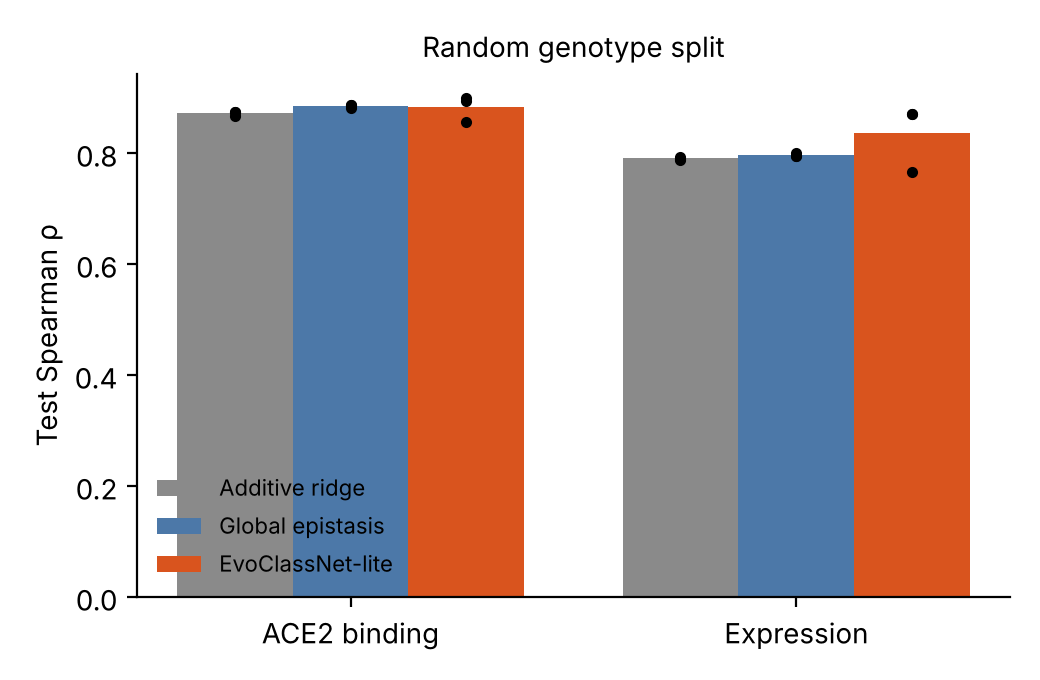
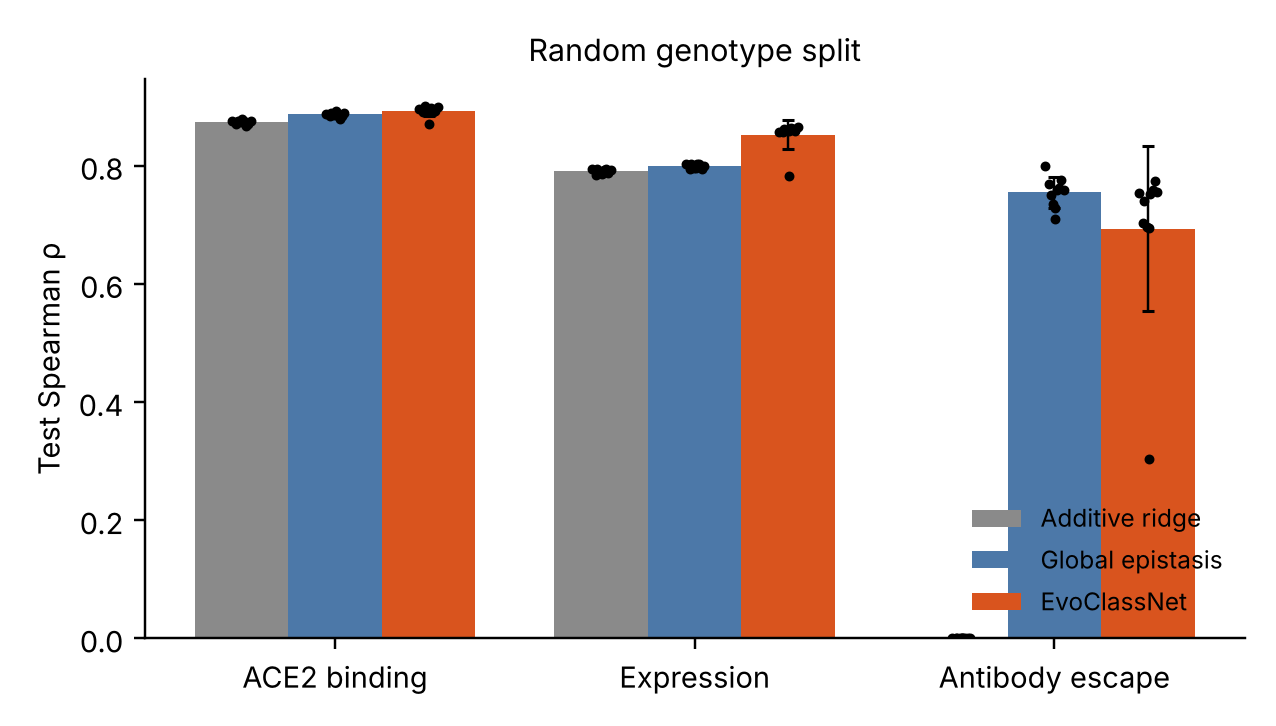
Add stability diagnostic separating partition difficulty from optimisation instability
Per-seed inspection of the 10-seed study shows one held-out-position seed failing on
all three phenotypes (binding -0.42) while nine are positive. Split seed and weight
initialisation share a number in the main study, so this script holds the partition
fixed and varies only the initialisation.

Claude-Session: https://claude.ai/code/session_01WvoRybUDvc848EsKeN6znn

diff --git a/scripts/stability_check.py b/scripts/stability_check.py
@@ -1,0 +1,40 @@
+"""Is the occasional failed run caused by a hard partition or by unstable optimisation?
+
+In the main study the split seed and the weight-initialisation seed are the same number, so the
+two explanations are confounded. Here we hold the partition fixed and vary only the
+initialisation, for a partition that failed and for one that succeeded.
+"""
+import json, sys, time
+from pathlib import Path
+import numpy as np, torch
+from scipy.stats import spearmanr
+sys.path.insert(0, str(Path(__file__).resolve().parents[1]))
+from evoclassnet import data, model as M
+ROOT = Path(__file__).resolve().parents[1]; OUT = ROOT / "results"
+torch.set_num_threads(4)
+TASKS = ["bind", "expr", "escape"]
+log = lambda *a: print(time.strftime("%H:%M:%S"), *a, flush=True)
+
+if __name__ == "__main__":
+    split_seeds = [int(x) for x in (sys.argv[1].split(",") if len(sys.argv) > 1 else ["2", "0"])]
+    init_seeds = [int(x) for x in (sys.argv[2].split(",") if len(sys.argv) > 2 else ["0", "1", "2"])]
+    hp = {k: (tuple(v) if isinstance(v, list) else v) for k, v in json.load(open(OUT / "ga_hyperparams.json"))["best"].items()}
+    g = data.load_genotypes(); X = data.encode(g.subs.tolist()); Y = g[TASKS].to_numpy(dtype=np.float32)
+    res = []
+    for ss in split_seeds:
+        tr, va, te = data.split_heldout_sites(g, ss)
+        for init in init_seeds:
+            net = M.EvoClassNetLite(n_tasks=3, **{k: hp[k] for k in ("emb", "ch", "ks", "lstm", "dropout")})
+            net = M.fit(net, X[tr], Y[tr], X[va], Y[va], epochs=8, bs=256, lr=hp["lr"], wd=hp["wd"], seed=init, log=lambda *a: None)
+            P = M.predict(net, X[te])
+            r = {}
+            for i, t in enumerate(TASKS):
+                m = ~np.isnan(Y[te, i])
+                r[t] = float(spearmanr(Y[te, i][m], P[m, i])[0]) if m.sum() > 3 and np.ptp(P[m, i]) > 1e-9 else 0.0
+            vl = M.evaluate_loss(net, X[va], Y[va])
+            res.append(dict(split_seed=ss, init_seed=init, val_loss=vl, **r))
+            log(f"split {ss} init {init}: " + " ".join(f"{t}={r[t]:+.3f}" for t in TASKS) + f"  val_loss={vl:.4f}")
+    json.dump(res, open(OUT / "stability_check.json", "w"), indent=1)
+    for ss in split_seeds:
+        v = [x["bind"] for x in res if x["split_seed"] == ss]
+        log(f"split {ss}: binding rho over {len(v)} inits = " + ", ".join(f"{x:+.3f}" for x in v))
